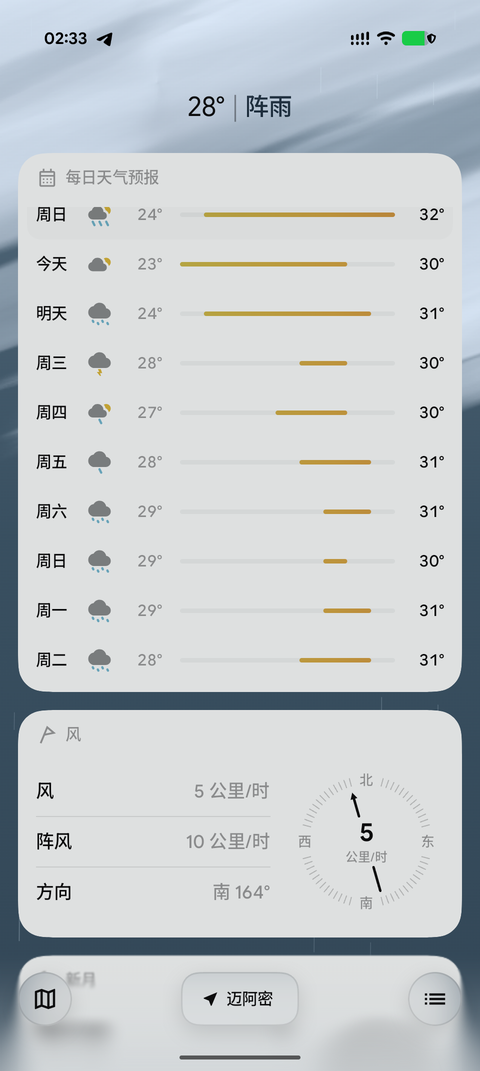
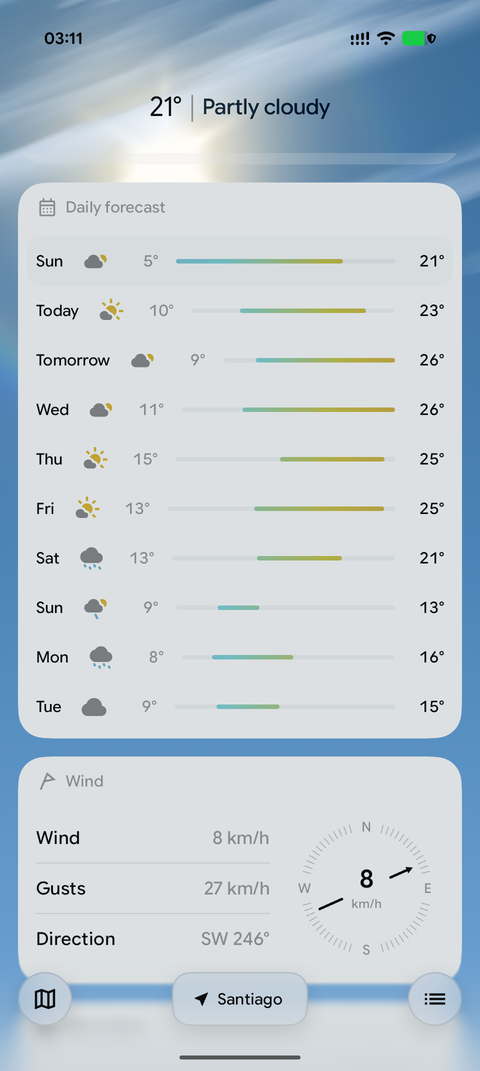
Show the README's screenshots in English, in five weathers
The first set was one place, in Chinese. The sky is the app's point,
and it follows the real weather and sun of the place shown, so the set
is now five saved places caught in five states -- clear with the sun
high (Denver), partly cloudy (Santiago), overcast (New York), light
rain (Miami) and a clear night (Tokyo) -- with the app's language set
to English for the shots. The cards, the map and the sideways page are
Santiago. The scene shots are 400 wide, the rest as before; the set is
1.3 MB.

Test: every image the README names exists and is the scene its alt
      text says; viewed as a contact sheet

diff --git a/README.md b/README.md
@@ -5,8 +5,14 @@ page is drawn live by a shader that follows the weather and the sun; the cards o
 Material 3 glass. Data comes from the [FundamentalOS](https://fundamentalos.org) backend.
 
 <p align="center">
-  <img src="docs/screenshots/home.png" width="240" alt="Home page">
-  <img src="docs/screenshots/home-cards.png" width="240" alt="Home page, scrolled to the cards">
+  <img src="docs/screenshots/sunny.png" width="156" alt="Clear, the sun high">
+  <img src="docs/screenshots/partly-cloudy.png" width="156" alt="Partly cloudy">
+  <img src="docs/screenshots/overcast.png" width="156" alt="Overcast">
+  <img src="docs/screenshots/rain.png" width="156" alt="Light rain">
+  <img src="docs/screenshots/night.png" width="156" alt="A clear night">
+</p>
+<p align="center">
+  <img src="docs/screenshots/home-cards.png" width="240" alt="The cards, the headline pinned above them">
   <img src="docs/screenshots/map.png" width="240" alt="Weather map">
 </p>
 <p align="center">
@@ -38,12 +44,7 @@ Material 3 glass. Data comes from the [FundamentalOS](https://fundamentalos.org)
 Settings let you freeze the background animation, turn off the glass text, and turn off the
 IP-based location fallback.
 
-## Where the data comes from
-
-The app talks only to the FundamentalOS API (`https://api.fundamentalos.org`), which
-aggregates its sources server-side and returns one snapshot per place: current conditions,
-hourly and daily forecasts, air quality, minute-by-minute precipitation and warnings, in
-the app's language. The credits shown in the app's *Data sources* screen:
+## Data sources
 
 | What | Source |
 |---|---|
@@ -55,12 +56,7 @@ the app's language. The credits shown in the app's *Data sources* screen:
 | Moon texture | NASA / GSFC / Arizona State University |
 | Icons | Material Symbols |
 
-The backend is a separate project; this repository is the Android client only.
-
-**Location.** The app asks the system for a fix (GPS, network, passive, last known) and,
-until one arrives or when none does, asks the backend to place the device by its IP address.
-That fallback can be turned off in settings. The backend receives coordinates to fetch
-weather for, and the text of a place search; there is no account and no analytics.
+The backend is a separate project. This repository is the Android client only.
 
 ## Building
 
